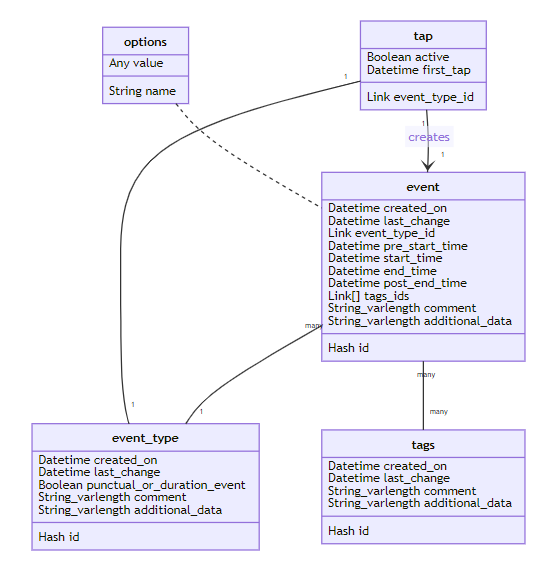
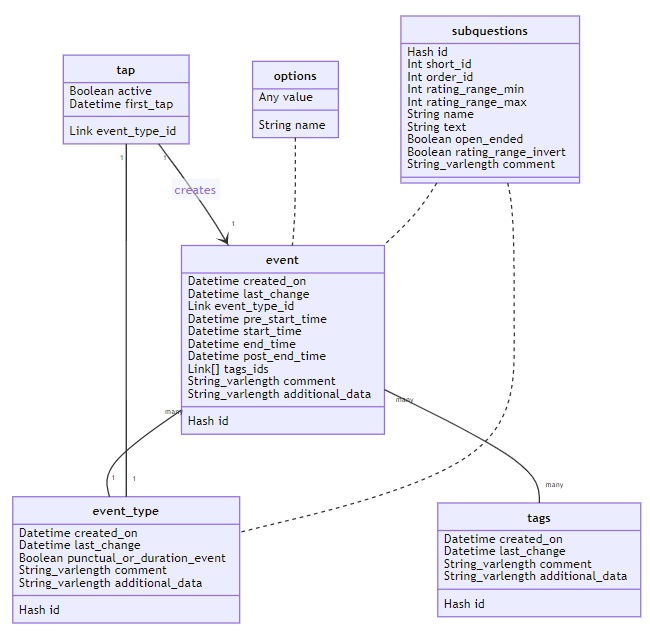
add subquestions (wip) in specs

Changed region(s): [[0.0, 0.0, 1.0, 0.9965], [0.3036, 0.218, 0.3643, 0.2491]]

diff --git a/docs/circalog-format-spec.md b/docs/circalog-format-spec.md
@@ -144,6 +144,58 @@ Name of the option. SQL key.
 
 Multi types. Stores the value for the option.
 
+#### #### (WIP) Table: subquestions
+
+This table aims to allow sleep clinic operators and users to define their own set of qualitative scales, such as sleep quality, mood, etc.
+
+These subquestions can be displayed/linked to any `event_type`. The link will be added in `event_type` as an `event_type.additional_data` field: `subquestions=1;3;5;6` where the integers are the list of the subquestions `short_id`. Then, when an `event` record is saved, the answers to subquestions will also be saved in `event.additional_data` with a similar formatting.
+
+The app chooses how to display subquestions, either after ending an `event` record, or they can be integrated in the GUI when editing an `event` record just as if the subquestions were part of the `event` widgets (eg, like Sleepmeter's Sleep Quality widget).
+
+#### id
+
+Unique hash from current timestamp, to allow for easy merge.
+
+#### short_id
+
+Integer. Will be used to link in `subquestions`, instead of `id` which will consume much more storage space and will be humanly unreadable.
+
+#### order_id
+
+Integer. Will be solely used to order the appearances of subquestions.
+
+#### name
+
+String. Short description of the question, eg: "Sleep quality".
+
+#### text
+
+String of variable length. Question to display to the user, eg: "How would you rate your sleep quality?". This is optional.
+
+#### open_ended
+
+Boolean. If false (default), will display a slider with a range between `rating_range_min` and `rating_range_max`. If true, will display a textbox for the user to enter their thoughts freely which will be stored in the `comment` field.
+
+#### mandatory
+
+Boolean. If true, the user will need to fill in this subquestion to register the record. If false, the user can skip the subquestion.
+
+#### rating_range_min
+
+Integer. Minimum rating.
+
+#### rating_range_max
+
+Integer. Maximum rating.
+
+#### rating_range_invert
+
+Boolean. Inverts the rating range.
+
+#### comment
+
+String of variable length. Stores either comments to complement the range rating with `open_ended == false`, or is the only thing displayed when `open_ended == true`.
+
 ## SQL relationships diagram
 
 Relational database diagram via Mermaid:
@@ -159,6 +211,8 @@ event "many" -- "many" tags
 tap "1" --> "1" event : creates
 tap "1" -- "1" event_type
 options .. event
+subquestions .. event_type
+subquestions .. event
 
 event : Hash id (key)
 event : Datetime created_on
@@ -191,4 +245,15 @@ tap : Datetime first_tap
 
 options : String name (key)
 options : Any value
+
+subquestions : Hash id
+subquestions : Int short_id
+subquestions : Int order_id
+subquestions : Int rating_range_min
+subquestions : Int rating_range_max
+subquestions : String name
+subquestions : String text
+subquestions : Boolean open_ended
+subquestions : Boolean rating_range_invert
+subquestions : String_varlength comment
 ```
